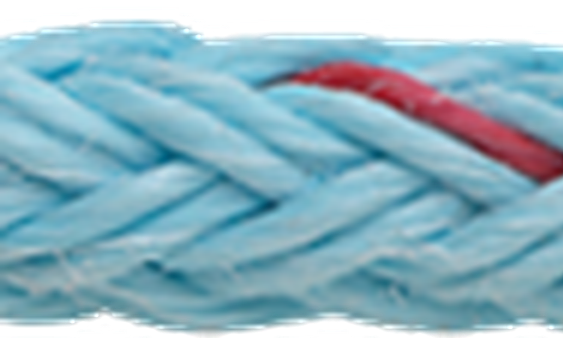
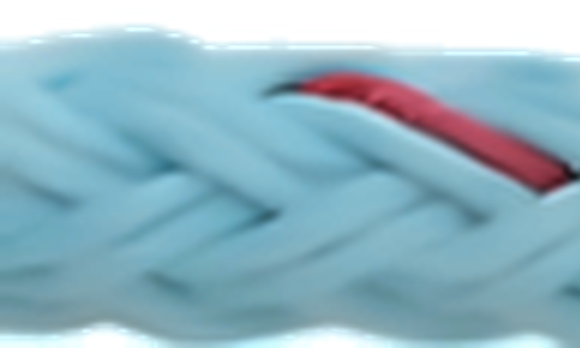
fix(images): denoise rope at source res to remove upscale grain

diff --git a/shot.js b/shot.js
@@ -1,0 +1,33 @@
+const { chromium } = require('playwright');
+
+(async () => {
+  const b = await chromium.launch();
+  const p = await b.newPage({ viewport: { width: 1440, height: 1900 }, deviceScaleFactor: 2 });
+  await p.goto('https://rfree0816-crypto.github.io/Paducah-Rigging-Website/?cb=' + Date.now(), { waitUntil: 'networkidle' });
+
+  const clicked = await p.evaluate(() => {
+    const el = Array.from(document.querySelectorAll('button,a,span,div'))
+      .find(e => /browse catalog|sign in|enter/i.test(e.textContent || '') &&
+                 e.textContent.trim().length < 40 && e.offsetParent !== null);
+    if (el) { el.click(); return el.textContent.trim(); }
+    return null;
+  });
+
+  await p.waitForTimeout(2500);
+
+  await p.evaluate(async () => {
+    const v = Date.now();
+    await Promise.all(Array.from(document.querySelectorAll('img')).map(img =>
+      new Promise(res => {
+        img.onload = res; img.onerror = res;
+        img.src = img.src.split('?')[0] + '?v=' + v;
+        setTimeout(res, 4000);
+      })));
+  });
+  await p.waitForTimeout(1200);
+
+  await p.screenshot({ path: '/home/user/workspace/preview-anchor.png' });
+  await p.screenshot({ path: '/home/user/workspace/preview-full.png', fullPage: true });
+  console.log(JSON.stringify({ clicked, title: await p.title() }));
+  await b.close();
+})();

diff --git a/shot.py b/shot.py
@@ -1,0 +1,1 @@
+from playwright.sync_api import sync_playwright
